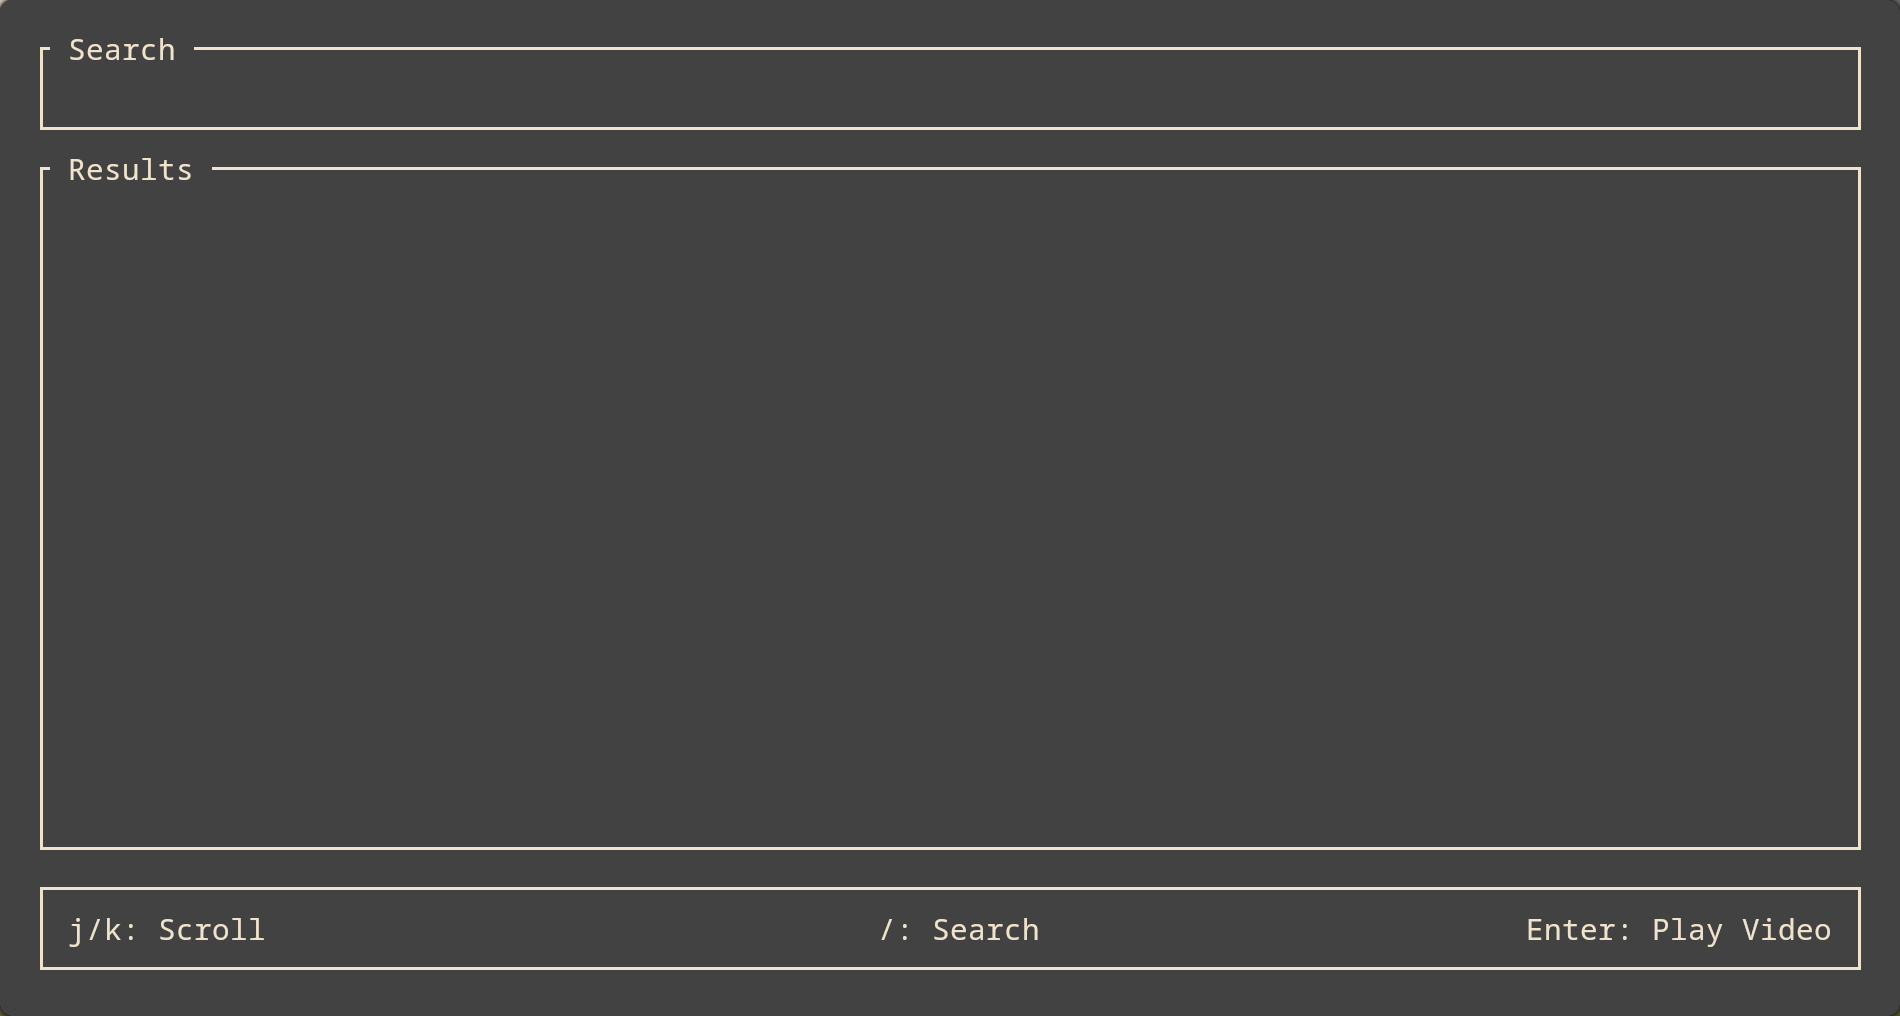
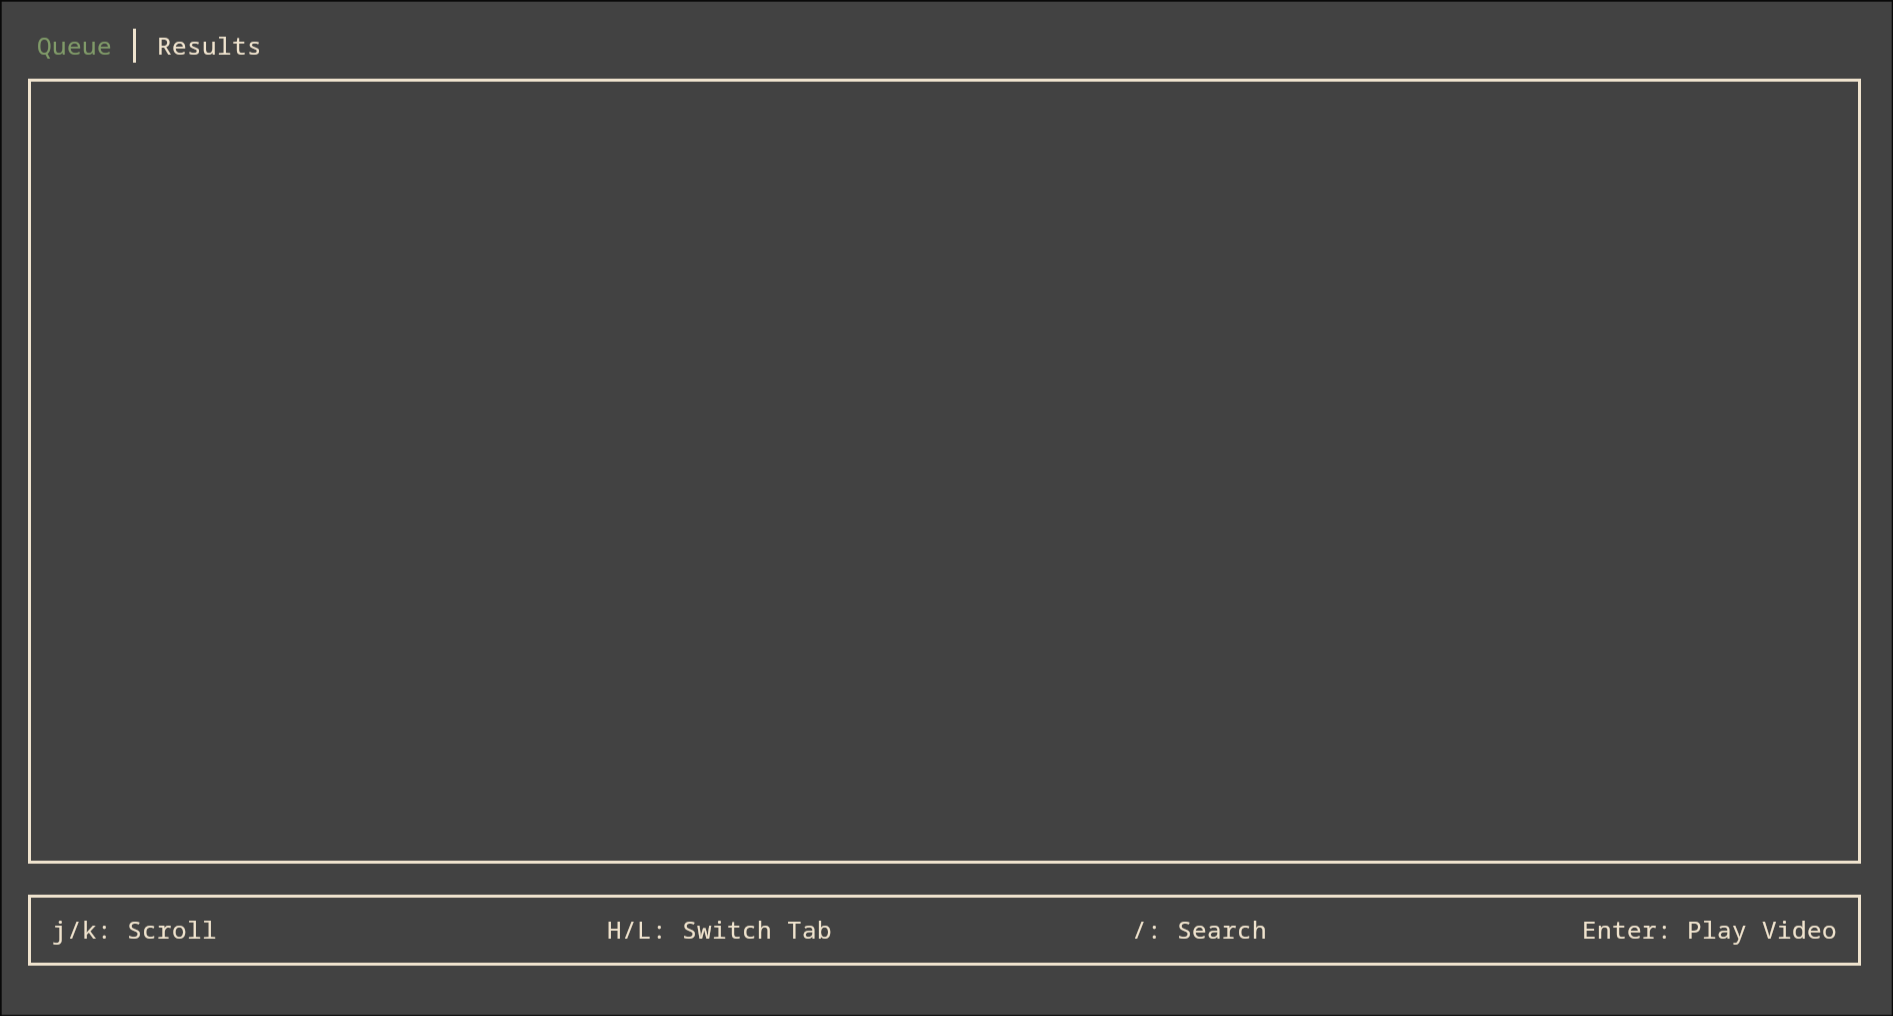
Fix critical issues; Better cleanup on quit; Cleaner handling of mpv and its ipc sockets

Changed region(s): [[0.0, 0.0, 1.0, 1.0]]

diff --git a/src/main.rs b/src/main.rs
@@ -12,11 +12,10 @@ use ratatui::{
 use serde::Deserialize;
 use std::{
     fs,
-    io::Write,
+    io::{ErrorKind, Write},
     os::unix::net::UnixStream,
     process::{Child, Command, Stdio},
-    thread,
-    time::{self, Duration},
+    time::Duration,
 };
 use tokio::sync::mpsc;
 
@@ -61,8 +60,8 @@ impl Widget for Popup<'_> {
 struct Video {
     id: String,
     title: String,
+    #[serde(default)]
     uploader: String,
-    // #[serde(default)]
     // duration: f64,
 }
 
@@ -71,7 +70,9 @@ impl Video {
         app.send_mpv_command(vec!["cycle", "pause"])
     }
     fn stop(app: &mut App) -> color_eyre::Result<()> {
-        app.send_mpv_command(vec!["stop"])
+        app.is_nowplaying = false;
+        app.kill_mpv();
+        Ok(())
     }
     fn increase_volume(app: &mut App) -> color_eyre::Result<()> {
         app.send_mpv_command(vec!["add", "volume", "5"])
@@ -89,7 +90,6 @@ enum Mode {
     #[default]
     Default,
     Search,
-    NowPlaying,
 }
 
 /// The main application which holds the state and logic of the application.
@@ -110,7 +110,9 @@ struct App {
     tabs_current: usize,
     child_process: Option<Child>,
     mpv_stream: Option<UnixStream>,
+    mpv_connect_attempts: i8,
     now_playing: Video,
+    is_nowplaying: bool,
 
     // tokio  search-related stuff
     is_loading: bool, // In-case I want to add a leading screen
@@ -141,7 +143,9 @@ impl App {
         let tabs_current: usize = 0;
         let child_process: Option<Child> = None;
         let mpv_stream: Option<UnixStream> = None;
+        let mpv_connect_attempts = 0;
         let now_playing: Video = Video::default();
+        let is_nowplaying = false;
         let is_loading = false;
         let search_rx = None;
 
@@ -159,7 +163,9 @@ impl App {
             tabs_current,
             child_process,
             mpv_stream,
+            mpv_connect_attempts,
             now_playing,
+            is_nowplaying,
             is_loading,
             search_rx,
         }
@@ -175,6 +181,7 @@ impl App {
         while self.running {
             terminal.draw(|frame| self.render(frame))?;
             self.check_search_results()?;
+            self.try_connect_mpv();
             if event::poll(Duration::from_millis(50))? {
                 self.handle_crossterm_events()?;
             }
@@ -213,7 +220,7 @@ impl App {
         );
 
         frame.render_widget(
-            Paragraph::new(" H/L: Switch Tab ")
+            Paragraph::new(" H/L: Switch Tab                    /: Search ")
                 .block(status_block.clone())
                 .centered(),
             status_area,
@@ -261,7 +268,7 @@ impl App {
                         .block(results_block)
                         .highlight_style(Color::Blue),
                     results_area,
-                    &mut self.resultlist_state,
+                    &mut self.queuelist_state,
                 );
             }
         }
@@ -273,16 +280,12 @@ impl App {
                     .content(format!(" {}", self.search_query))
                     .title(" Search ");
                 frame.render_widget(search, search_area);
-            }
-            Mode::NowPlaying => {
-
-                //    Gauge::default()
-                //        .block(status_block)
-                //        .percent(29)
-                //        .label(String::new())
-                //        .gauge_style(Color::Red)
-                //        .render(status_area, frame.buffer_mut());
-            }
+            } //    Gauge::default()
+              //        .block(status_block)
+              //        .percent(29)
+              //        .label(String::new())
+              //        .gauge_style(Color::Red)
+              //        .render(status_area, frame.buffer_mut());
         }
     }
 
@@ -300,8 +303,8 @@ impl App {
             let _ = tx.send(out);
         });
 
-        // self.is_loading is set to false in check_search_results for obvious reasons. (Because is
-        // loading doesn't stop until check search results is completed)
+        // self.is_loading is set to false in check_search_results for obvious reasons. (Because
+        // is_loading doesn't stop until check search results is completed)
     }
     async fn perform_search(query: String) -> color_eyre::Result<Vec<Video>> {
         let options = tokio::process::Command::new("yt-dlp")
@@ -364,15 +367,15 @@ impl App {
         Ok(())
     }
 
-    fn play_video(&mut self) -> color_eyre::Result<()> {
-        self.mode = Mode::NowPlaying;
-        if fs::exists("/tmp/mpv-socket").unwrap()
-            && let Err(e) = fs::remove_file("/tmp/mpv-socket")
-        {
-            eprintln!("Could not remove ipc file /tmp/mpv-socket: {e}");
+    fn play_video(&mut self, screen: Screen) -> color_eyre::Result<()> {
+        if self.is_nowplaying {
+            self.kill_mpv();
         }
+        self.is_nowplaying = true;
 
-        if let Some(index) = self.resultlist_state.selected() {
+        if screen == Screen::Results
+            && let Some(index) = self.resultlist_state.selected()
+        {
             self.now_playing = self.video_list[index].clone();
             let child = Command::new("mpv")
                 .arg("--ytdl-format=bestaudio")
@@ -387,22 +390,43 @@ impl App {
                 .stdin(Stdio::null())
                 .spawn()?;
             self.child_process = Some(child);
+        } else if screen == Screen::Queue
+            && let Some(index) = self.queuelist_state.selected()
+        {
+            self.now_playing = self.queuelist[index].clone();
+            let child = Command::new("mpv")
+                .arg("--ytdl-format=bestaudio")
+                .arg(format!(
+                    "https://www.youtube.com/watch?v={}",
+                    self.queuelist[index].id
+                ))
+                .arg("--no-video")
+                .arg("--input-ipc-server=/tmp/mpv-socket")
+                .stdout(Stdio::null())
+                .stderr(Stdio::null())
+                .stdin(Stdio::null())
+                .spawn()?;
+            self.child_process = Some(child);
         }
 
+        self.mpv_connect_attempts = 10;
         //TEMP SOLUTION FIND BETTER WAY TO CHECK IF IPC LOADED
-        for _ in 0..3 {
-            thread::sleep(time::Duration::from_millis(500));
-            match UnixStream::connect("/tmp/mpv-socket") {
-                Ok(o) => {
-                    self.mpv_stream = Some(o);
-                    break;
-                }
-                Err(e) => {
-                    eprintln!("Could not connect mpv-socket: {e}");
-                }
+        Ok(())
+    }
+
+    fn try_connect_mpv(&mut self) {
+        if self.mpv_connect_attempts == 0 {
+            return;
+        }
+        match UnixStream::connect("/tmp/mpv-socket") {
+            Ok(o) => {
+                self.mpv_stream = Some(o);
+                self.mpv_connect_attempts = 0;
+            }
+            Err(_) => {
+                self.mpv_connect_attempts -= 1;
             }
         }
-        Ok(())
     }
 
     fn send_mpv_command(&mut self, args: Vec<&str>) -> color_eyre::Result<()> {
@@ -411,13 +435,32 @@ impl App {
             vec_args.push(format!("\"{}\"", arg));
         }
         let json_args = vec_args.join(",");
-        let message = format!("{{\"command\": [{json_args}])\n");
+        let message = format!("{{\"command\": [{json_args}]}}\n");
         if let Some(ref mut stream) = self.mpv_stream
             && let Err(e) = stream.write_all(message.as_bytes())
         {
-            println!("Could not write to UnixStream at send_mpv_command(): {e} ");
+            eprintln!("Could not write to UnixStream at send_mpv_command(): {e} ");
         }
         Ok(())
+    }
+
+    fn kill_mpv(&mut self) {
+        self.mpv_stream.take();
+
+        if let Some(ref mut child) = self.child_process {
+            if let Err(e) = child.kill() {
+                eprintln!("Could not kill child, need idf: {e}");
+            }
+            if let Err(e) = child.wait() {
+                eprintln!("Could not wait on child: {e}");
+            }
+        }
+        self.child_process = None;
+        if let Err(e) = fs::remove_file("/tmp/mpv-socket")
+            && e.kind() != ErrorKind::NotFound
+        {
+            eprintln!("Could not remove /tmp/mpv-socket file: {e}");
+        }
     }
 
     fn tabs_choose(&mut self, screen: Screen) {
@@ -495,8 +538,13 @@ impl App {
     fn on_key_event(&mut self, key: KeyEvent) -> color_eyre::Result<()> {
         match self.mode {
             Mode::Search => match key.code {
-                KeyCode::Char('q' | 'Q') => self.quit(),
-                KeyCode::Char('c' | 'C') if key.modifiers == KeyModifiers::CONTROL => self.quit(),
+                KeyCode::Char('c' | 'C') => {
+                    if key.modifiers == KeyModifiers::CONTROL {
+                        self.quit()
+                    } else {
+                        self.search_query.push('c');
+                    }
+                }
                 KeyCode::Char(ch) => self.search_query.push(ch),
                 KeyCode::Backspace => {
                     self.search_query.pop();
@@ -531,8 +579,9 @@ impl App {
                         KeyCode::Char('j') => self.resultlist_state.select_next(),
                         KeyCode::Char('k') => self.resultlist_state.select_previous(),
                         KeyCode::Enter => {
-                            self.play_video()?;
+                            self.play_video(Screen::Results)?;
                             self.queuelist.push(self.now_playing.clone());
+                            self.tabs_choose(Screen::Queue);
                         }
                         KeyCode::Char('/') => self.mode = Mode::Search,
                         _ => {}
@@ -553,41 +602,39 @@ impl App {
                         }
                         KeyCode::Char('j') => self.queuelist_state.select_next(),
                         KeyCode::Char('k') => self.queuelist_state.select_previous(),
-                        KeyCode::Enter => self.play_video()?,
+                        KeyCode::Enter => self.play_video(Screen::Queue)?,
                         KeyCode::Char('/') => self.mode = Mode::Search,
+                        KeyCode::Esc | KeyCode::Char('s') => {
+                            Video::stop(self)?;
+                            self.mode = Mode::Default;
+                        }
+                        KeyCode::Char('9') => {
+                            if self.is_nowplaying {
+                                Video::decrease_volume(self)?;
+                                Video::get_current_volume(self)?;
+                            }
+                        }
+                        KeyCode::Char('0') => {
+                            if self.is_nowplaying {
+                                Video::increase_volume(self)?;
+                            }
+                        }
+                        KeyCode::Char(' ') => {
+                            if self.is_nowplaying {
+                                Video::play_pause(self)?;
+                            }
+                        }
                         _ => {}
                     }
                 }
             }
-            Mode::NowPlaying => match key.code {
-                KeyCode::Char('H') => self.tabs_next(),
-                KeyCode::Char('L') => self.tabs_previous(),
-                KeyCode::Esc | KeyCode::Char('s') => {
-                    Video::stop(self)?;
-                    self.mode = Mode::Default;
-                }
-                KeyCode::Char('9') => {
-                    Video::decrease_volume(self)?;
-                    Video::get_current_volume(self)?;
-                }
-                KeyCode::Char('0') => {
-                    Video::increase_volume(self)?;
-                    Video::get_current_volume(self)?;
-                }
-                KeyCode::Char(' ') => Video::play_pause(self)?,
-                _ => {}
-            },
         }
         Ok(())
     }
 
     /// Set running to false to quit the application.
     fn quit(&mut self) {
-        if let Some(ref mut child) = self.child_process
-            && let Err(e) = child.kill()
-        {
-            eprintln!("Could not kill child: {e}"); /* Call IDF */
-        }
+        self.kill_mpv();
         self.running = false;
     }
 }
